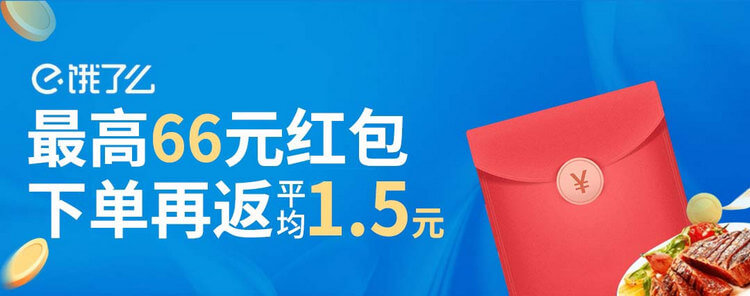
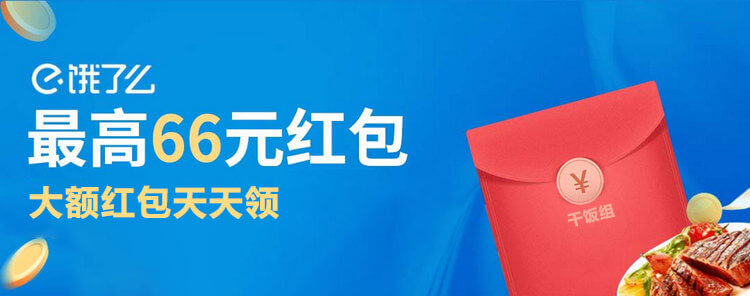
index-detail op

Changed region(s): [[0.0307, 0.6081, 0.6133, 0.8514], [0.736, 0.6689, 0.828, 0.7601], [0.2147, 0.973, 0.276, 1.0]]

diff --git a/pages/index/detail.vue b/pages/index/detail.vue
@@ -7,10 +7,7 @@
       </view>
     </view>
 
-
-
     <view class="waimai-content" :style="pageBg.bgc">
-
       <view class="content">
         <!-- 正文内容 -->
         <view class="top">
@@ -19,7 +16,7 @@
         <view class="center">
           <!-- 导购三标栏 -->
           <view class="cen-top">
-            <image :src="pageBg.step" mode="widthFix" lazy-load @load="onoff='1'"></image>
+            <image :src="stepImg" mode="widthFix" lazy-load @load="onoff='1'"></image>
             <view class="y y1" :style="pageBg.bgc"></view>
             <view class="y y2" :style="pageBg.bgc"></view>
           </view>
@@ -40,13 +37,12 @@
                       :loading="saveLoading" @tap="saveTo">保存</CcButton>
           </view>
           <view class="bttext">
-            返利注意事项:<br />
-            1.领券下单均有返利,返利按照订单实际支付金额为准;<br />
-            2.必须使用从本页获得的红包码领券,领券后使用红包下单才有返利;<br />
-            3.领券后在红包有效期内下单均有返利;<br />
-            4.饿了么绑定的手机号，需与领券登录的手机号—致;<br />
-            5.下单后30分钟内会有订单返现提醒;<br />
-            6.无论饿了么新老用户,每个手机号每天可领一次,红包金额随机发放;
+            干饭组使用说明:<br />
+            1.本产品为广大用户提供每日领取外卖红包的快捷方式;<br />
+            2.领取的红包可在该平台下的任何客户端查询与使用;<br />
+            3.首次使用外卖平台小程序领取红包需授权微信登录;<br />
+            4.本项目不会未经允许收集您的任何私人信息;<br />
+            5.红包每天可领24小时有效,金额随机;<br />
           </view>
         </view>
       </view>
@@ -82,18 +78,22 @@ export default {
         inputVal: ''
       },
 
-      pageBg: {},
-      pageBgElm: {
-        backgroundColor: '#027ed8',
-        bgc: 'background-color:#027ed8',
+      stepImg: '/static/detail/bg/step.jpg',
+      pageBg: {
+        bgc: 'background:linear-gradient(-45deg, #0163D2 0%, #0178D6 100%);',
         topBg: '/static/detail/bg/elm_zx_top.jpg',
-        step: '/static/detail/bg/elm_step.jpg',
+      },
+      pageBgCh: {
+        bgc: 'background:linear-gradient(-45deg, #55ADCD 0%, #89C9E2 100%);',
+        topBg: '/static/detail/bg/elm_ch_top.jpg',
+      },
+      pageBgCs: {
+        bgc: 'background:linear-gradient(-45deg, #EA6D71 0%, #EB7979 100%);',
+        topBg: '/static/detail/bg/elm_cs_top.jpg',
       },
       pageBgMt: {
-        backgroundColor: '#feac00',
-        bgc: 'background-color:#fdc413',
+        bgc: 'background:linear-gradient(-45deg, #FDB101 0%, #FEBB06 100%);',
         topBg: '/static/detail/bg/mt_top.jpg',
-        step: '/static/detail/bg/mt_step.jpg',
       },
     }
   },
@@ -109,16 +109,16 @@ export default {
 
     this.coupon = JSON.parse(decodeURIComponent(e.item))
 
-    // 皮肤
+    // 皮肤切换
     switch (this.coupon.id) {
       case 1:
         this.pageBg = this.pageBgElm
         break
       case 2:
-        this.pageBg = this.pageBgElm
+        this.pageBg = this.pageBgCh
         break
       case 3:
-        this.pageBg = this.pageBgElm
+        this.pageBg = this.pageBgCs
         break
       case 4:
         this.pageBg = this.pageBgMt
@@ -299,8 +299,9 @@ page{
       }
       .bttext {
         color: #fff;
-        line-height: 50rpx;
+        line-height: 60rpx;
         margin-top: 40rpx;
+        font-size: 12px;
         text {
           color: rgb(236, 76, 21)
         }
